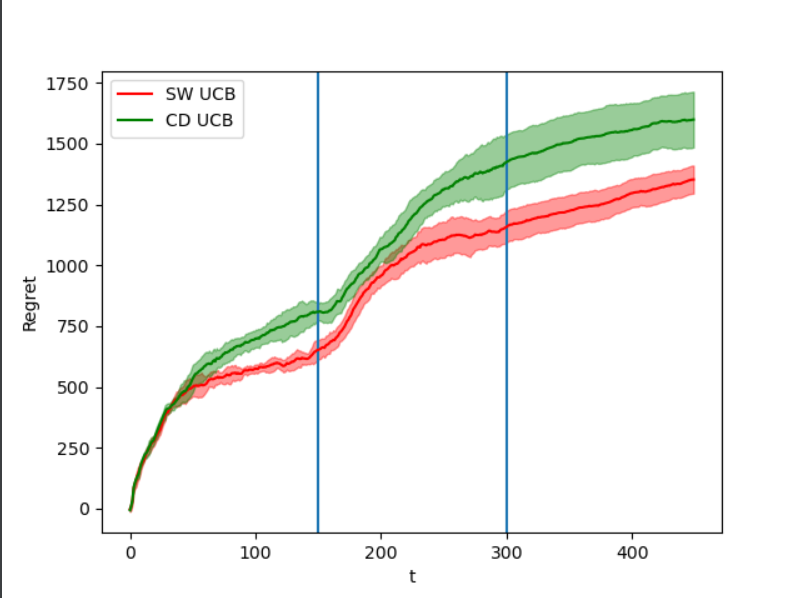
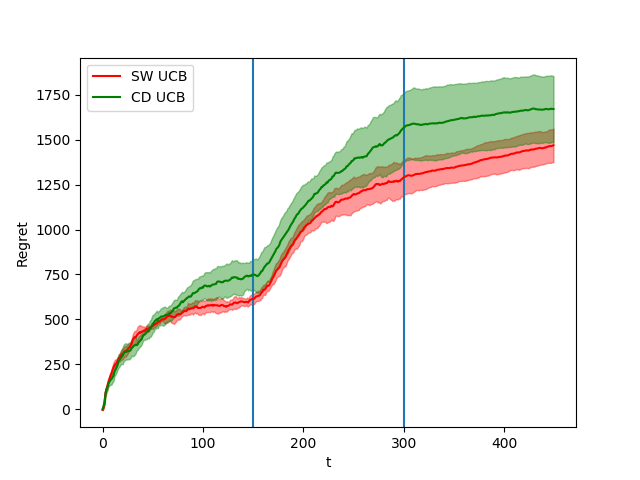
update step 6 grafico

Changed region(s): [[0.0, 0.0938, 0.9062, 0.9375]]

diff --git a/Step_6.py b/Step_6.py
@@ -21,7 +21,7 @@ def step_6():
     rewardsCD_exp = []
 
     for e in range(n_experiments):
-        sw = [SW_UCB(sim[0].n_prices, 20, cf[0].alphas_mean[i], cf[0].sold_items_mean[i]) for i in range(sim[0].n_products)]
+        sw = [SW_UCB(sim[0].n_prices, 20) for i in range(sim[0].n_products)]
         cd = [CD_UCB(sim[0].n_prices) for i in range(sim[0].n_products)]
 
         print("Exp:", e)
@@ -38,7 +38,7 @@ def step_6():
                 phase=2
             # TS Learner
             price_conf = np.array([sw[i].pull_arm(cf[phase].margin[i]) for i in range(sim[phase].n_products)])
-            reward, buyers, offers, alphas, items, history, previous = sim[phase].simulate(price_conf)
+            reward, buyers, offers, _, _, _, _ = sim[phase].simulate(price_conf)
             for p in range(sim[phase].n_products):
                 sw[p].update(price_conf[p], reward[p], buyers[p], offers[p])
             rewardsSW = np.append(rewardsSW, np.sum(reward))
@@ -59,7 +59,7 @@ def step_6():
                 phase=2
             # UCB
             price_conf = np.array([cd[i].pull_arm(cf[phase].margin[i]) for i in range(sim[phase].n_products)])
-            reward, buyers, offers, alphas, items, history, previous = sim[phase].simulate(price_conf)
+            reward, buyers, offers, _, _, _, _ = sim[phase].simulate(price_conf)
             for p in range(sim[phase].n_products):
                 cd[p].update(price_conf[p], reward[p], buyers[p], offers[p], cf[phase].margin[p])
             rewardsCD = np.append(rewardsCD, np.sum(reward))

diff --git a/main.py b/main.py
@@ -119,11 +119,14 @@ def plot_reward(opt, rewardsTS_exp, rewardsUCB_exp, time_horizon, step=0):
     plt.figure(0)
     plt.xlabel("t")
     plt.ylabel("Reward")
-    plt.plot(time_horizon * [opt], 'b', label='Optimal')
+    
     if step == 6:
         labels = ["SW UCB", "CD UCB"]
+        plt.plot(opt, 'b', label='Optimal')
         plt.axvline(x=150)
         plt.axvline(x=300)
+    else:
+        plt.plot(time_horizon * [opt], 'b', label='Optimal')
 
     window = 10
 
